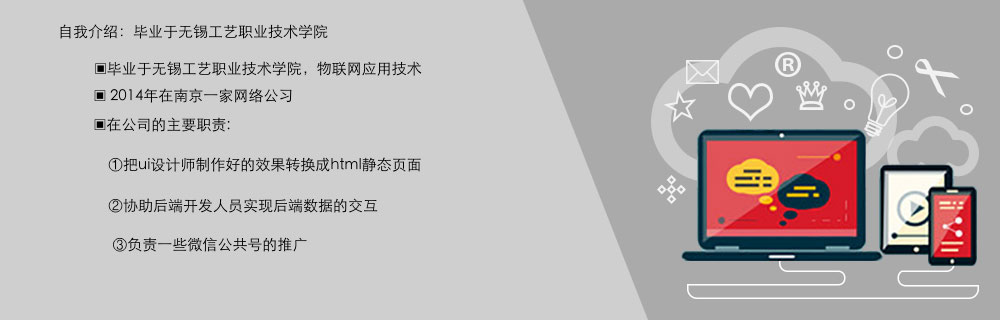
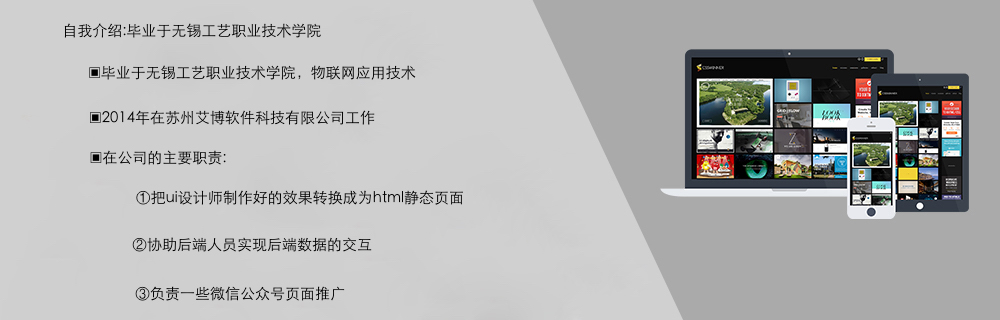
个人简历

diff --git a/dangdang-app-angularjs/assets/tpl/blog.html b/dangdang-app-angularjs/assets/tpl/blog.html
@@ -1,5 +1,5 @@
 <h3>xxx公司</h3>
-<p>2014.9-2016.16,在此公司从事软件开发工程师</p>
+<p>2014.9-2016.9,在苏州艾博软件科技有限公司从事软件开发工程师</p>
 <p>本人的主要职责是:</p>
 <p>把ui设计师制作好的效果转换成为html静态页面</p>
 <p>协助后端开发人员实现后端的数据交互</p>
